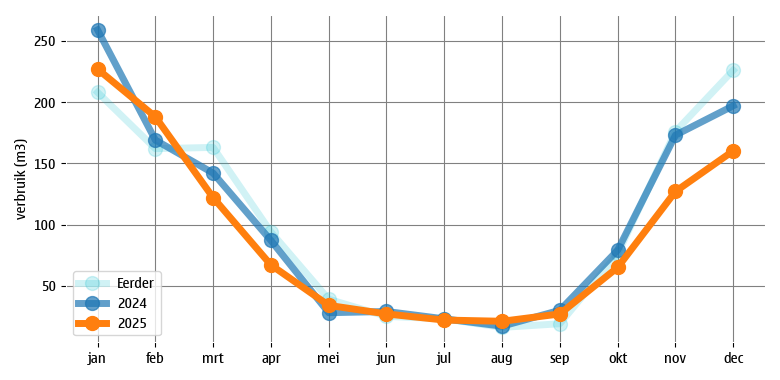
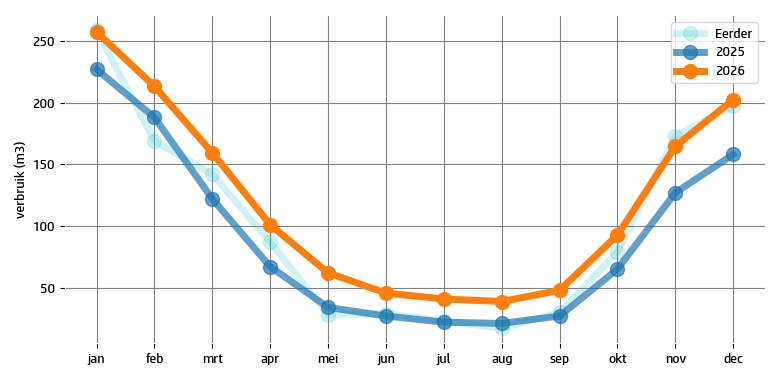
feat: Begin 2026

diff --git a/energieverbruik.py b/energieverbruik.py
@@ -37,18 +37,18 @@ class Month(Enum):
 #
 # CONSTANTEN
 #
-HUIDIG_JAAR = 2025
+HUIDIG_JAAR = 2026
 VORIG_JAAR = HUIDIG_JAAR - 1
 
 #
 # INVOEREN GEGEVENS HUIDIGE JAAR
 #
-MAAND = Month.DEC
-DAG_VAN_MAAND = 6
+MAAND = Month.JAN
+DAG_VAN_MAAND = 10
 DAGEN_IN_MAAND = MAAND.days
-VERBRUIK_GAS = 31
-VERBRUIK_ELEKTRICITEIT = 24
-VERBRUIK_WATER = 1.9
+VERBRUIK_GAS = 83
+VERBRUIK_ELEKTRICITEIT = 38
+VERBRUIK_WATER = 2.1
 PRIJS_GAS = 1.20840
 PRIJS_ELEKTRICITEIT = 0.28926
 PRIJS_WATER = 1.021
@@ -63,18 +63,21 @@ TOT_VEBR_GAS_VRG_JR = df['vrbr_gas_VrgJr']
 TOT_VEBR_GAS_VRG_JR2 = df['vrbr_gas_VrgJr2']
 TOT_VEBR_GAS_VRG_JR3 = df['vrbr_gas_VrgJr3']
 TOT_VEBR_GAS_VRG_JR4 = df['vrbr_gas_VrgJr4']
+TOT_VEBR_GAS_VRG_JR5 = df['vrbr_gas_VrgJr5']
 TOT_VEBR_ELE_VRG_JR = df['vrbr_ele_VrgJr']
 TOT_VEBR_ELE_VRG_JR2 = df['vrbr_ele_VrgJr2']
 TOT_VEBR_ELE_VRG_JR3 = df['vrbr_ele_VrgJr3']
 TOT_VEBR_ELE_VRG_JR4 = df['vrbr_ele_VrgJr4']
+TOT_VEBR_ELE_VRG_JR5 = df['vrbr_ele_VrgJr5']
 TOT_VEBR_WAT_VRG_JR = df['vrbr_wat_VrgJr']
 TOT_VEBR_WAT_VRG_JR2 = df['vrbr_wat_VrgJr2']
 TOT_VEBR_WAT_VRG_JR3 = df['vrbr_wat_VrgJr3']
 TOT_VEBR_WAT_VRG_JR4 = df['vrbr_wat_VrgJr4']
+TOT_VEBR_WAT_VRG_JR5 = df['vrbr_wat_VrgJr5']
 
-TOT_VEBR_GAS_VRG_JR2 = (TOT_VEBR_GAS_VRG_JR2 + TOT_VEBR_GAS_VRG_JR3 + TOT_VEBR_GAS_VRG_JR4) / 3
-TOT_VEBR_ELE_VRG_JR2 = (TOT_VEBR_ELE_VRG_JR2 + TOT_VEBR_ELE_VRG_JR3 + TOT_VEBR_ELE_VRG_JR4) / 3
-TOT_VEBR_WAT_VRG_JR2 = (TOT_VEBR_WAT_VRG_JR2 + TOT_VEBR_WAT_VRG_JR3 + TOT_VEBR_WAT_VRG_JR4) / 3
+TOT_VEBR_GAS_VRG_JR2 = (TOT_VEBR_GAS_VRG_JR2 + TOT_VEBR_GAS_VRG_JR3 + TOT_VEBR_GAS_VRG_JR4 + TOT_VEBR_GAS_VRG_JR5) / 4
+TOT_VEBR_ELE_VRG_JR2 = (TOT_VEBR_ELE_VRG_JR2 + TOT_VEBR_ELE_VRG_JR3 + TOT_VEBR_ELE_VRG_JR4 + TOT_VEBR_GAS_VRG_JR5) / 4
+TOT_VEBR_WAT_VRG_JR2 = (TOT_VEBR_WAT_VRG_JR2 + TOT_VEBR_WAT_VRG_JR3 + TOT_VEBR_WAT_VRG_JR4 + TOT_VEBR_GAS_VRG_JR5) / 4
 
 #
 # BEREKENINGEN GAS
@@ -87,9 +90,10 @@ for i in range(6, 9):
 vastGasMnd = SUM_ZOMERVERBRUIK / 3
 vastGasJr = vastGasMnd*12
 
-# Bereken gemiddelde graaddagen per maand voor afgelopen vijf jaar
+# Bereken gemiddelde graaddagen per maand voor afgelopen jaar
 gemGraaddagen = ((df['grddg_2019'] + df['grddg_2020'] + df['grddg_2021']
-                  + df['grddg_2022'] + df['grddg_2023'] + df['grddg_2024']) / 6).round(2)
+                  + df['grddg_2022'] + df['grddg_2023'] + df['grddg_2024']
+                  + df['grddg_2025']) / 7).round(2)
 
 # Bereken percentage verbruik per maand voor graaddagen
 SUM_GRAADDAGEN = 0
@@ -355,17 +359,17 @@ maanden = ["jan", "feb", "mrt", "apr", "mei", "jun", "jul", "aug", "sep",
 rcParams['axes.edgecolor'] = 'White'
 rcParams['figure.figsize'] = [7.8, 3.8]
 rcParams['font.family'] = ['sans-serif']
-rcParams['font.sans-serif'] = ['Nokia Sans']
+rcParams['font.sans-serif'] = ['HP Simplified']
 
 def grafiek_gas():
     # Grafiek gasverbruik
     plotGas.figure()
     plotGas.plot(maanden, df['vrbr_gas_VrgJr2'], color='tab:cyan', label="Eerder",
                  linewidth=5, alpha=0.2, marker='o', ms=10)
-    plotGas.plot(maanden, df['vrbr_gas_VrgJr'], color='tab:blue', label="2024",
+    plotGas.plot(maanden, df['vrbr_gas_VrgJr'], color='tab:blue', label=f"{VORIG_JAAR}",
                  linewidth=5, alpha=0.7, marker='o', ms=10)
     plotGas.plot(maanden, schatVerbrGas_HDG_JR, color='tab:orange',
-                 label="2025", linewidth=5, marker='o', ms=10)
+                 label=f"{HUIDIG_JAAR}", linewidth=5, marker='o', ms=10)
     plotGas.ylabel("verbruik (m3)", color='Black')
     plotGas.tick_params(colors='Black')
     plotGas.grid(color='Gray')
@@ -379,10 +383,10 @@ def grafiek_elektriciteit():
     plotEle.figure()
     plotEle.plot(maanden, df['vrbr_ele_VrgJr2'], color='tab:cyan', label="Eerder",
                  linewidth=5, alpha=0.2, marker='o', ms=10)
-    plotEle.plot(maanden, df['vrbr_ele_VrgJr'], color='tab:blue', label="2024",
+    plotEle.plot(maanden, df['vrbr_ele_VrgJr'], color='tab:blue', label=f"{VORIG_JAAR}",
                  linewidth=5, alpha=0.7, marker='o', ms=10)
     plotEle.plot(maanden, schatVerbrEle_HDG_JR,
-                 color='tab:orange', label="2025", linewidth=5, marker='o', ms=10)
+                 color='tab:orange', label=f"{HUIDIG_JAAR}", linewidth=5, marker='o', ms=10)
     plotEle.ylabel("verbruik (kWh)", color='Black')
     plotEle.tick_params(colors='Black')
     plotEle.grid(color='Gray')
@@ -396,10 +400,10 @@ def grafiek_water():
     plotWat.figure()
     plotWat.plot(maanden, df['vrbr_wat_VrgJr2'], color='tab:cyan', label="Eerder",
                  linewidth=5, alpha=0.2, marker='o', ms=10)
-    plotWat.plot(maanden, df['vrbr_wat_VrgJr'], color='tab:blue', label="2024",
+    plotWat.plot(maanden, df['vrbr_wat_VrgJr'], color='tab:blue', label=f"{VORIG_JAAR}",
                  linewidth=5, alpha=0.7, marker='o', ms=10)
     plotWat.plot(maanden, schatVerbrWat_HDG_JR, color='tab:orange',
-                 label="2025", linewidth=5, marker='o', ms=10)
+                 label=f"{HUIDIG_JAAR}", linewidth=5, marker='o', ms=10)
     plotWat.ylabel("verbruik (m3)", color='Black')
     plotWat.tick_params(colors='Black')
     plotWat.grid(color='Gray')

diff --git a/statistical-info.py b/statistical-info.py
@@ -46,13 +46,13 @@ watDitJaarMin2Med = round(watDitJaarMin2.median(), 1)
 
 def toon(jrStd, jrmin1Std, jrmin2Std, jrGem, jrmin1Gem, jrmin2Gem,
          jrMed, jrmin1Med, jrmin2Med):
-    print("\t   2025\t", jrStd, " (", round(jrStd-jrmin2Std, 1), ")\t",
+    print("\t   2026\t", jrStd, " (", round(jrStd-jrmin2Std, 1), ")\t",
           jrGem, " (", round(jrGem-jrmin2Gem, 1), ")\t",
           jrMed, " (", round(jrMed-jrmin2Med, 1), ")", sep="")
-    print("\t   2024\t", jrmin1Std, " (", round(jrmin1Std-jrmin2Std, 1), ")\t",
+    print("\t   2025\t", jrmin1Std, " (", round(jrmin1Std-jrmin2Std, 1), ")\t",
           jrmin1Gem, " (", round(jrmin1Gem-jrmin2Gem, 1), ")\t",
           jrmin1Med, " (", round(jrmin1Med-jrmin2Med, 1), ")", sep="")
-    print("\t<= 2023\t", jrmin2Std, "\t\t", jrmin2Gem, "\t\t", jrmin2Med, sep="")
+    print("\t<= 2024\t", jrmin2Std, "\t\t", jrmin2Gem, "\t\t", jrmin2Med, sep="")
 
 print("GAS (m3)\tStdDev\t\tAvg\t\tMed")
 toon(gasDitJaarStd, gasDitJaarMin1Std, gasDitJaarMin2Std,

diff --git a/calc_graaddagen.py b/calc_graaddagen.py
@@ -26,7 +26,7 @@ def bereken_verhouding():
     global ratio_graaddagen
     global verwacht_verbruik
     global verschil_verbruik
-    ratio_graaddagen = graaddagen_vorig / graaddagen_nu
+    ratio_graaddagen = graaddagen_nu / graaddagen_vorig
     verwacht_verbruik = verbruik_vorig * ratio_graaddagen
     verschil_verbruik = verbruik_nu / verwacht_verbruik * 100
 
